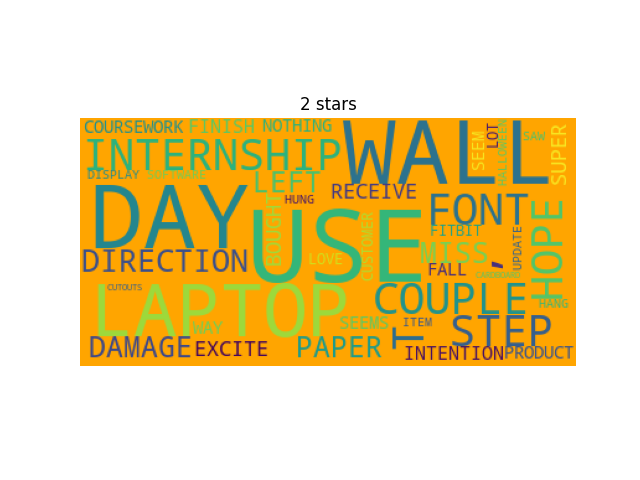
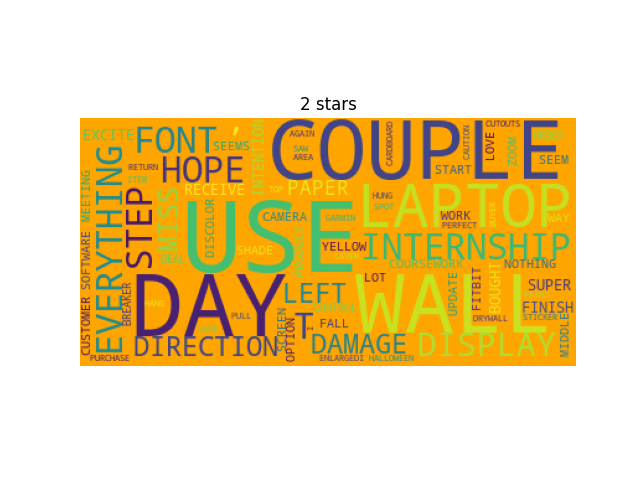
Instead of using top 15 bag of word element; we now use all of them for cloud since otherwise for parallel running we will have used more  (upto as many as 15 * #of slaves words for multiprocess whereas only 15 for single-process).

Changed region(s): [[0.125, 0.25, 0.9062, 0.75]]

diff --git a/Amazon/Parallel/Advanced Product Detail Extractor/With_Selenium/Process/process_csv.py b/Amazon/Parallel/Advanced Product Detail Extractor/With_Selenium/Process/process_csv.py
@@ -27,9 +27,9 @@ def main():
     comm = MPI.COMM_WORLD
     nprocs = comm.Get_size() # there are nprocs-1 slaves and 1 master
     rank = comm.Get_rank() 
-    print("Parallel execution time")  
+    print("Parallel execution")  
   else:
-    print("Serial Execution time")
+    print("Serial Execution")
 
   tp = timeit.Timer("process()", "from __main__ import process") 
   average_duration_seconds = tp.timeit(number=NUMBER_OR_REPEATS_TIMEIT) / NUMBER_OR_REPEATS_TIMEIT # calls process function (for each process) NUMBER_OR_REPEATS_TIMEIT times.
@@ -250,7 +250,7 @@ def get_wordCloudDict_forEachRating(df_correspondingRows):
       user_reviews_merged += row['User Reviews']
       if MINIMAL_SCRIPT_EXECUTION_TIMING_ACTIVE:
         break
-    wordCloud_dict[rating] = bag_of_words(user_reviews_merged, sortTheOutput=True, sliceStart=0, sliceEnd=15) # get the most frequent 15 words (if there are >= 15 words ofc)
+    wordCloud_dict[rating] = bag_of_words(user_reviews_merged, sortTheOutput=True)
     
   return wordCloud_dict
 
